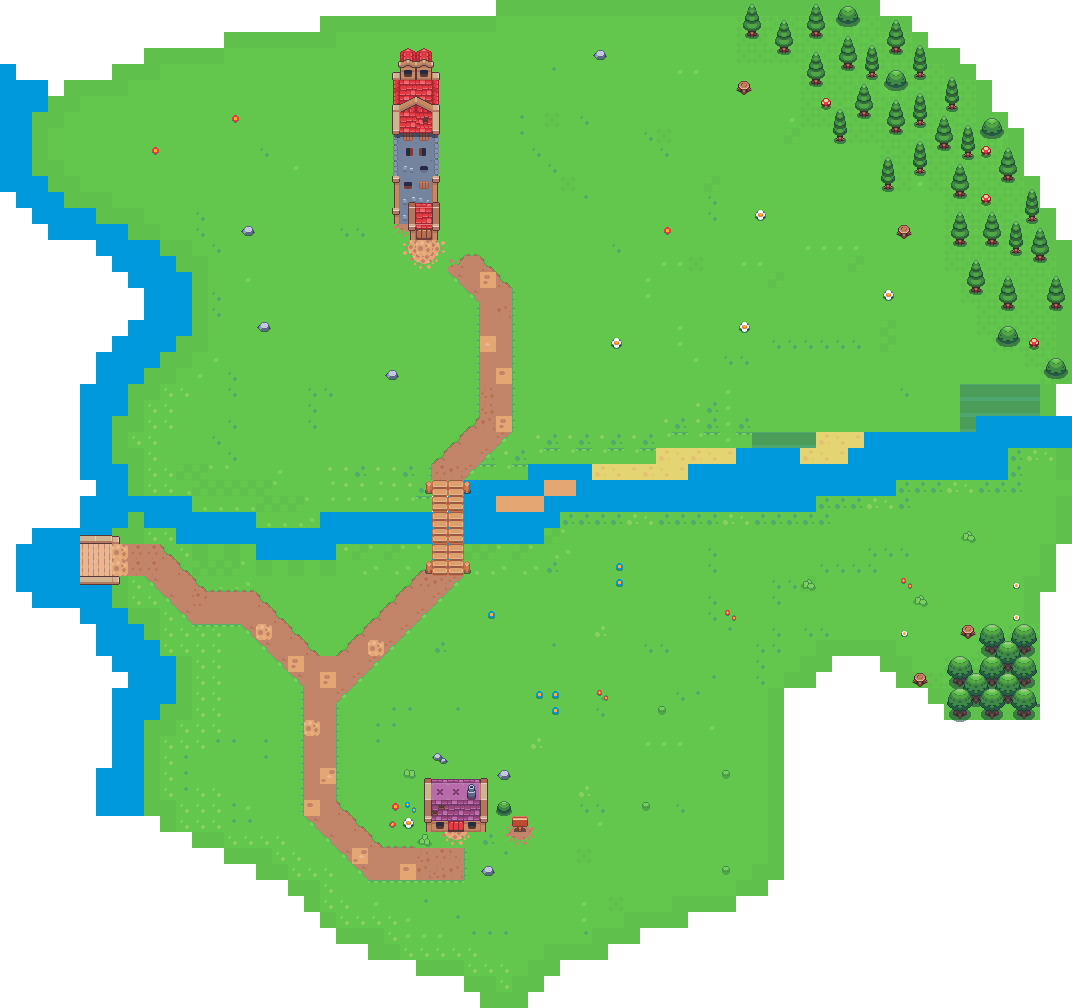
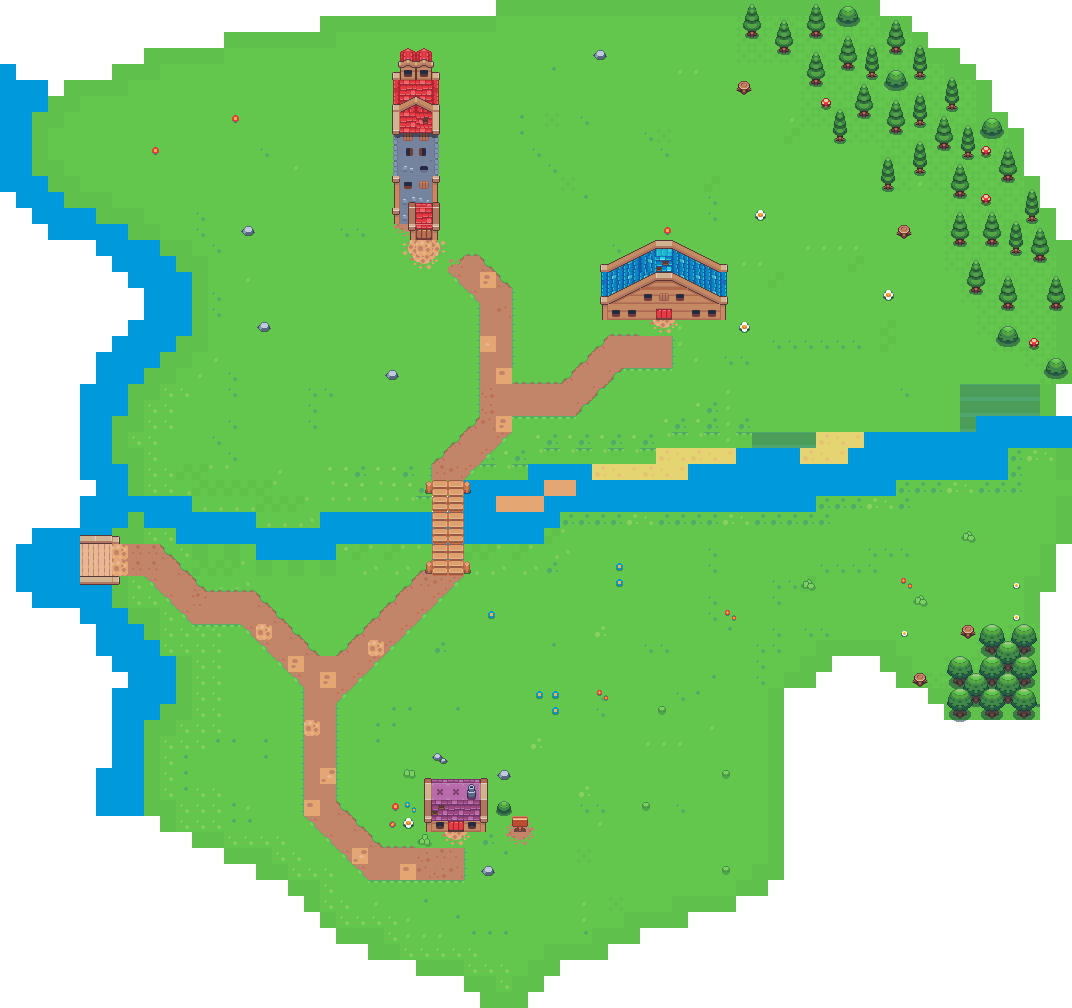
feat: add BelarusWork level with updated spawn points and polygon data, and load sprite in context

Changed region(s): [[0.4618, 0.2153, 0.6772, 0.4306]]

diff --git a/src/core/const.js b/src/core/const.js
@@ -13,10 +13,12 @@ export const spawnPoints = {
   start: { roomName: 'Belarus', spawnPoint: { x: 23, y: 53 } },
   toBelarus: { roomName: 'Belarus', spawnPoint: { x: 7, y: 35 } },
   toBelarusFromHome: { roomName: 'Belarus', spawnPoint: { x: 28, y: 54 } },
+  toBelarusFromWork: { roomName: 'Belarus', spawnPoint: { x: 40, y: 22 } },
   toBelarusHome: { roomName: 'BelarusHome', spawnPoint: { x: 6, y: 11 } },
+  toBelarusWork: { roomName: 'BelarusWork', spawnPoint: { x: 8, y: 11 } },
   toPoland: { roomName: 'Poland', spawnPoint: { x: 61, y: 40 } },
 };
 
 export const playerSpeed = 100;
 
-export const speedPlayTrext = 80;
+export const speedPlayTrext = 25;

diff --git a/src/core/kCtx.js b/src/core/kCtx.js
@@ -10,4 +10,5 @@ export const kCtx = kaboom({
 kCtx.setBackground(...background, 0.3);
 await kCtx.loadSprite('belarus', `${levelFolder}/belarus.png`);
 await kCtx.loadSprite('belarusHome', `${levelFolder}/belarusHome.png`);
+await kCtx.loadSprite('belarusWork', `${levelFolder}/belarusWork.png`);
 await kCtx.loadSprite('poland', `${levelFolder}/poland.png`);

diff --git a/src/main.js b/src/main.js
@@ -5,6 +5,7 @@ import { Room } from './models/room';
 export const roomManager = new RoomManager({
   Belarus: new Room('belarus'),
   BelarusHome: new Room('belarusHome'),
+  BelarusWork: new Room('belarusWork'),
   Poland: new Room('poland'),
 });
 
